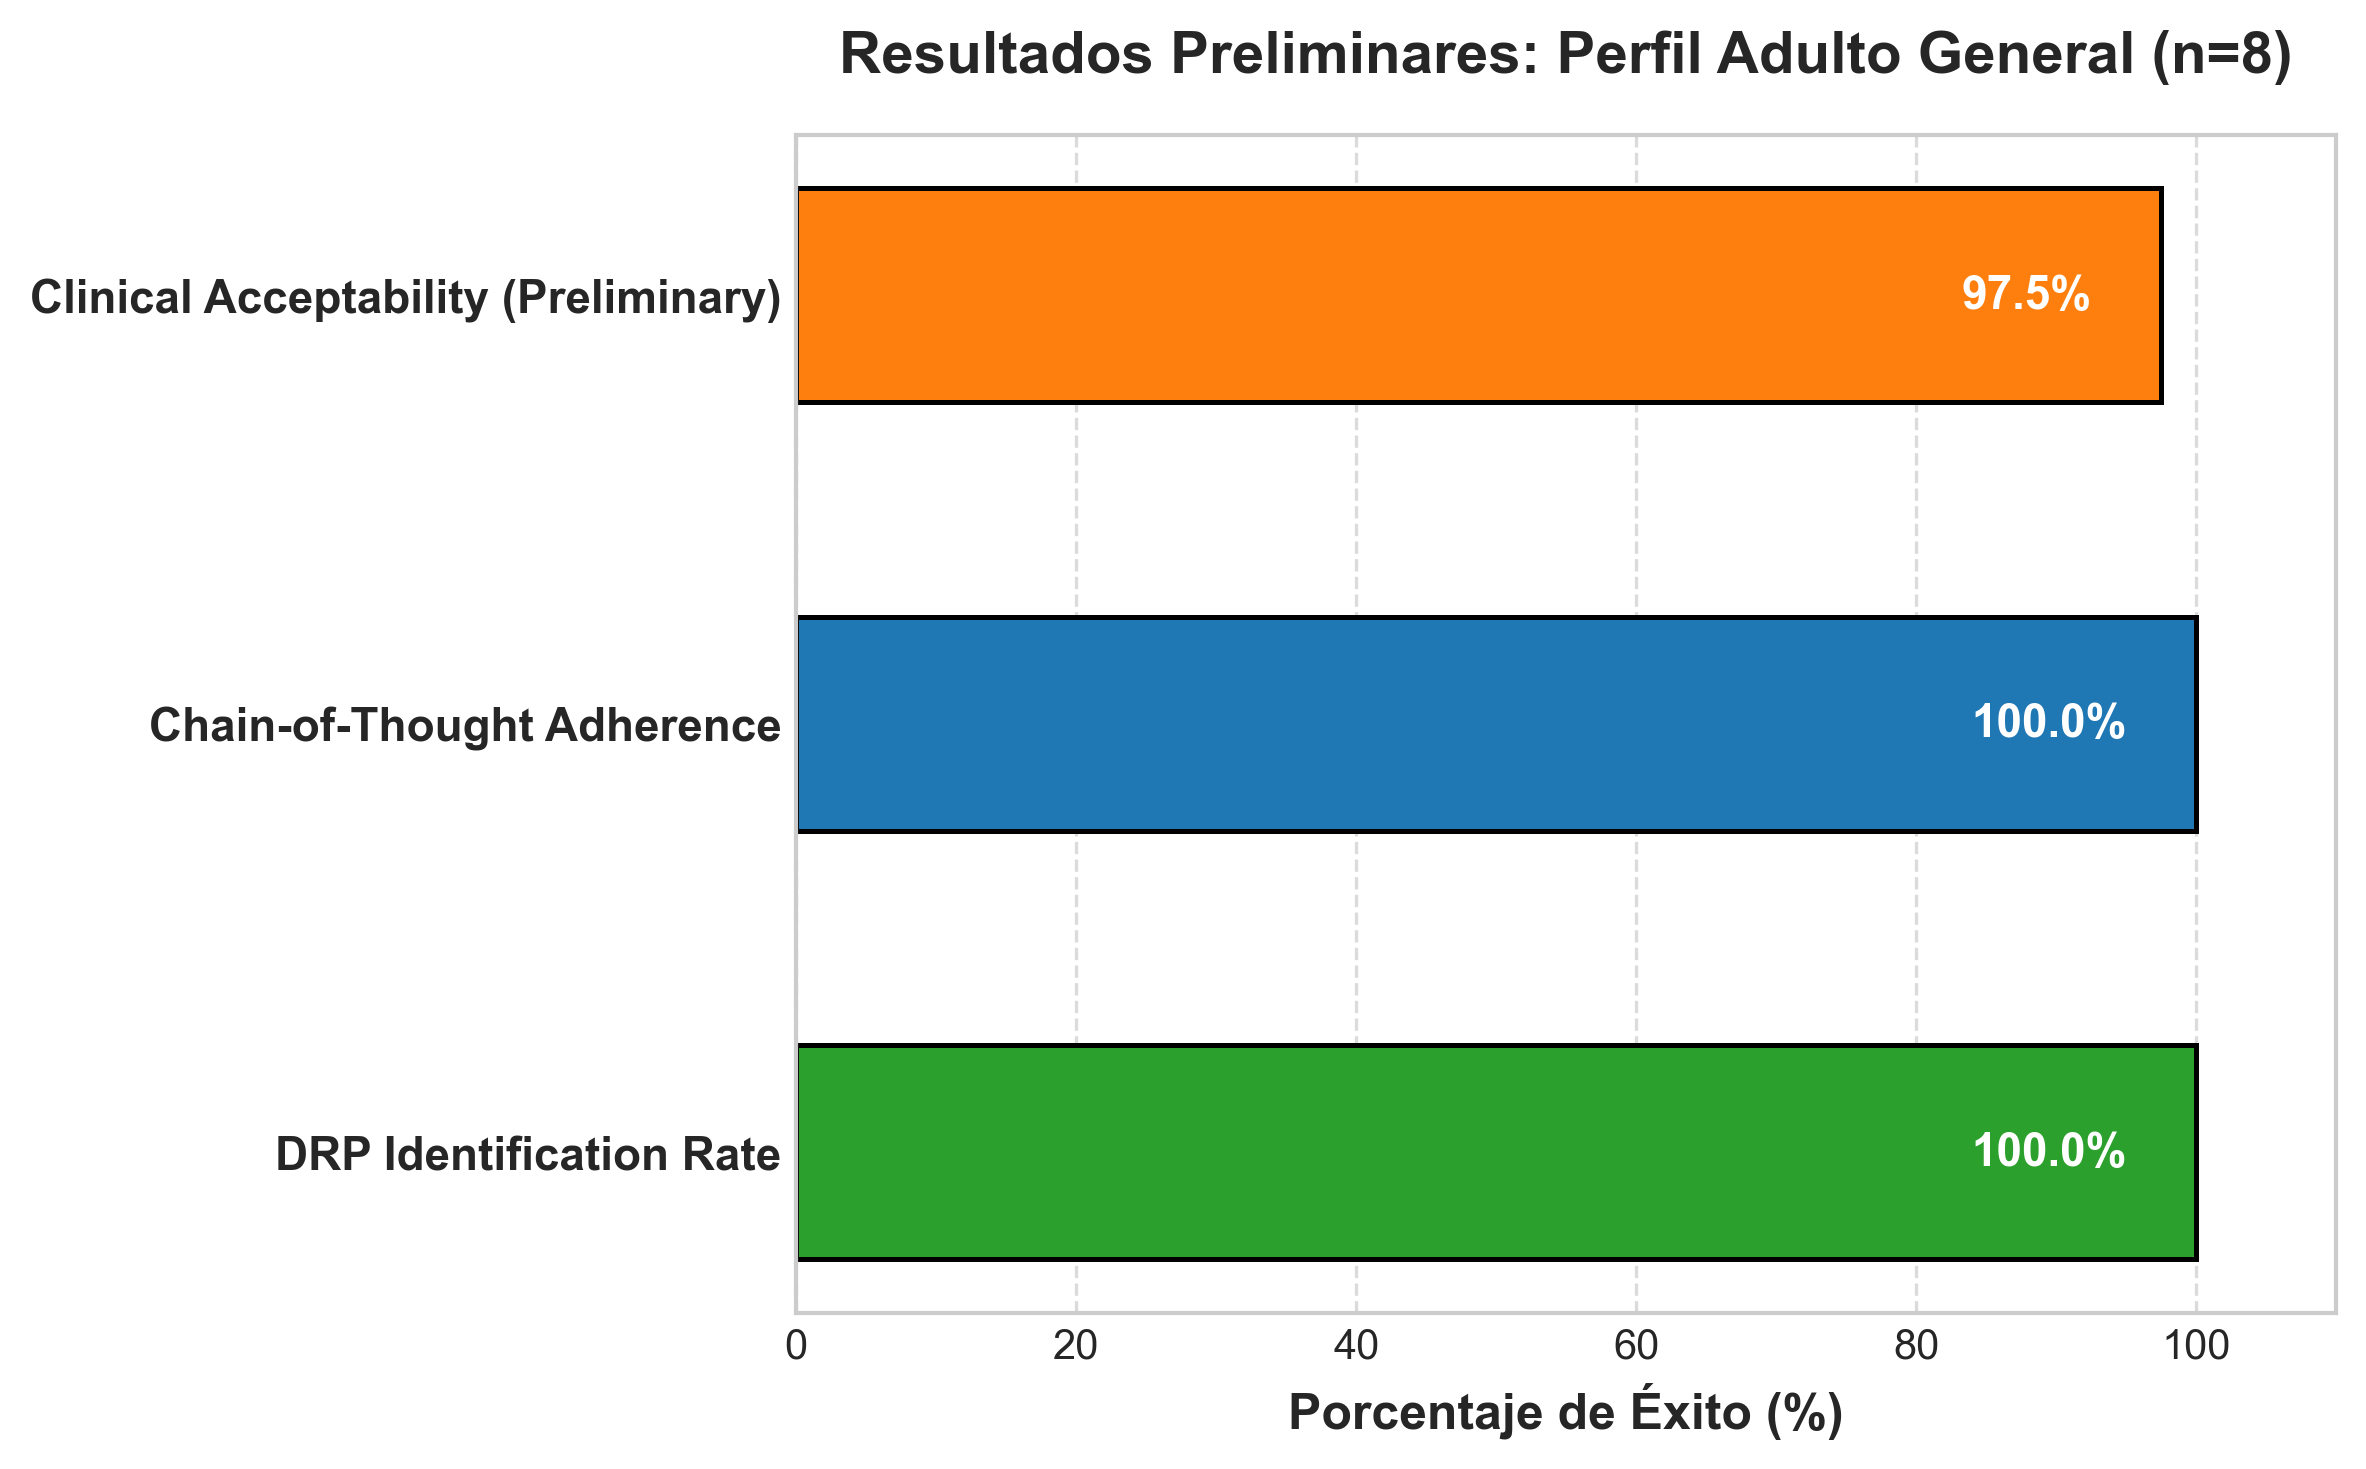
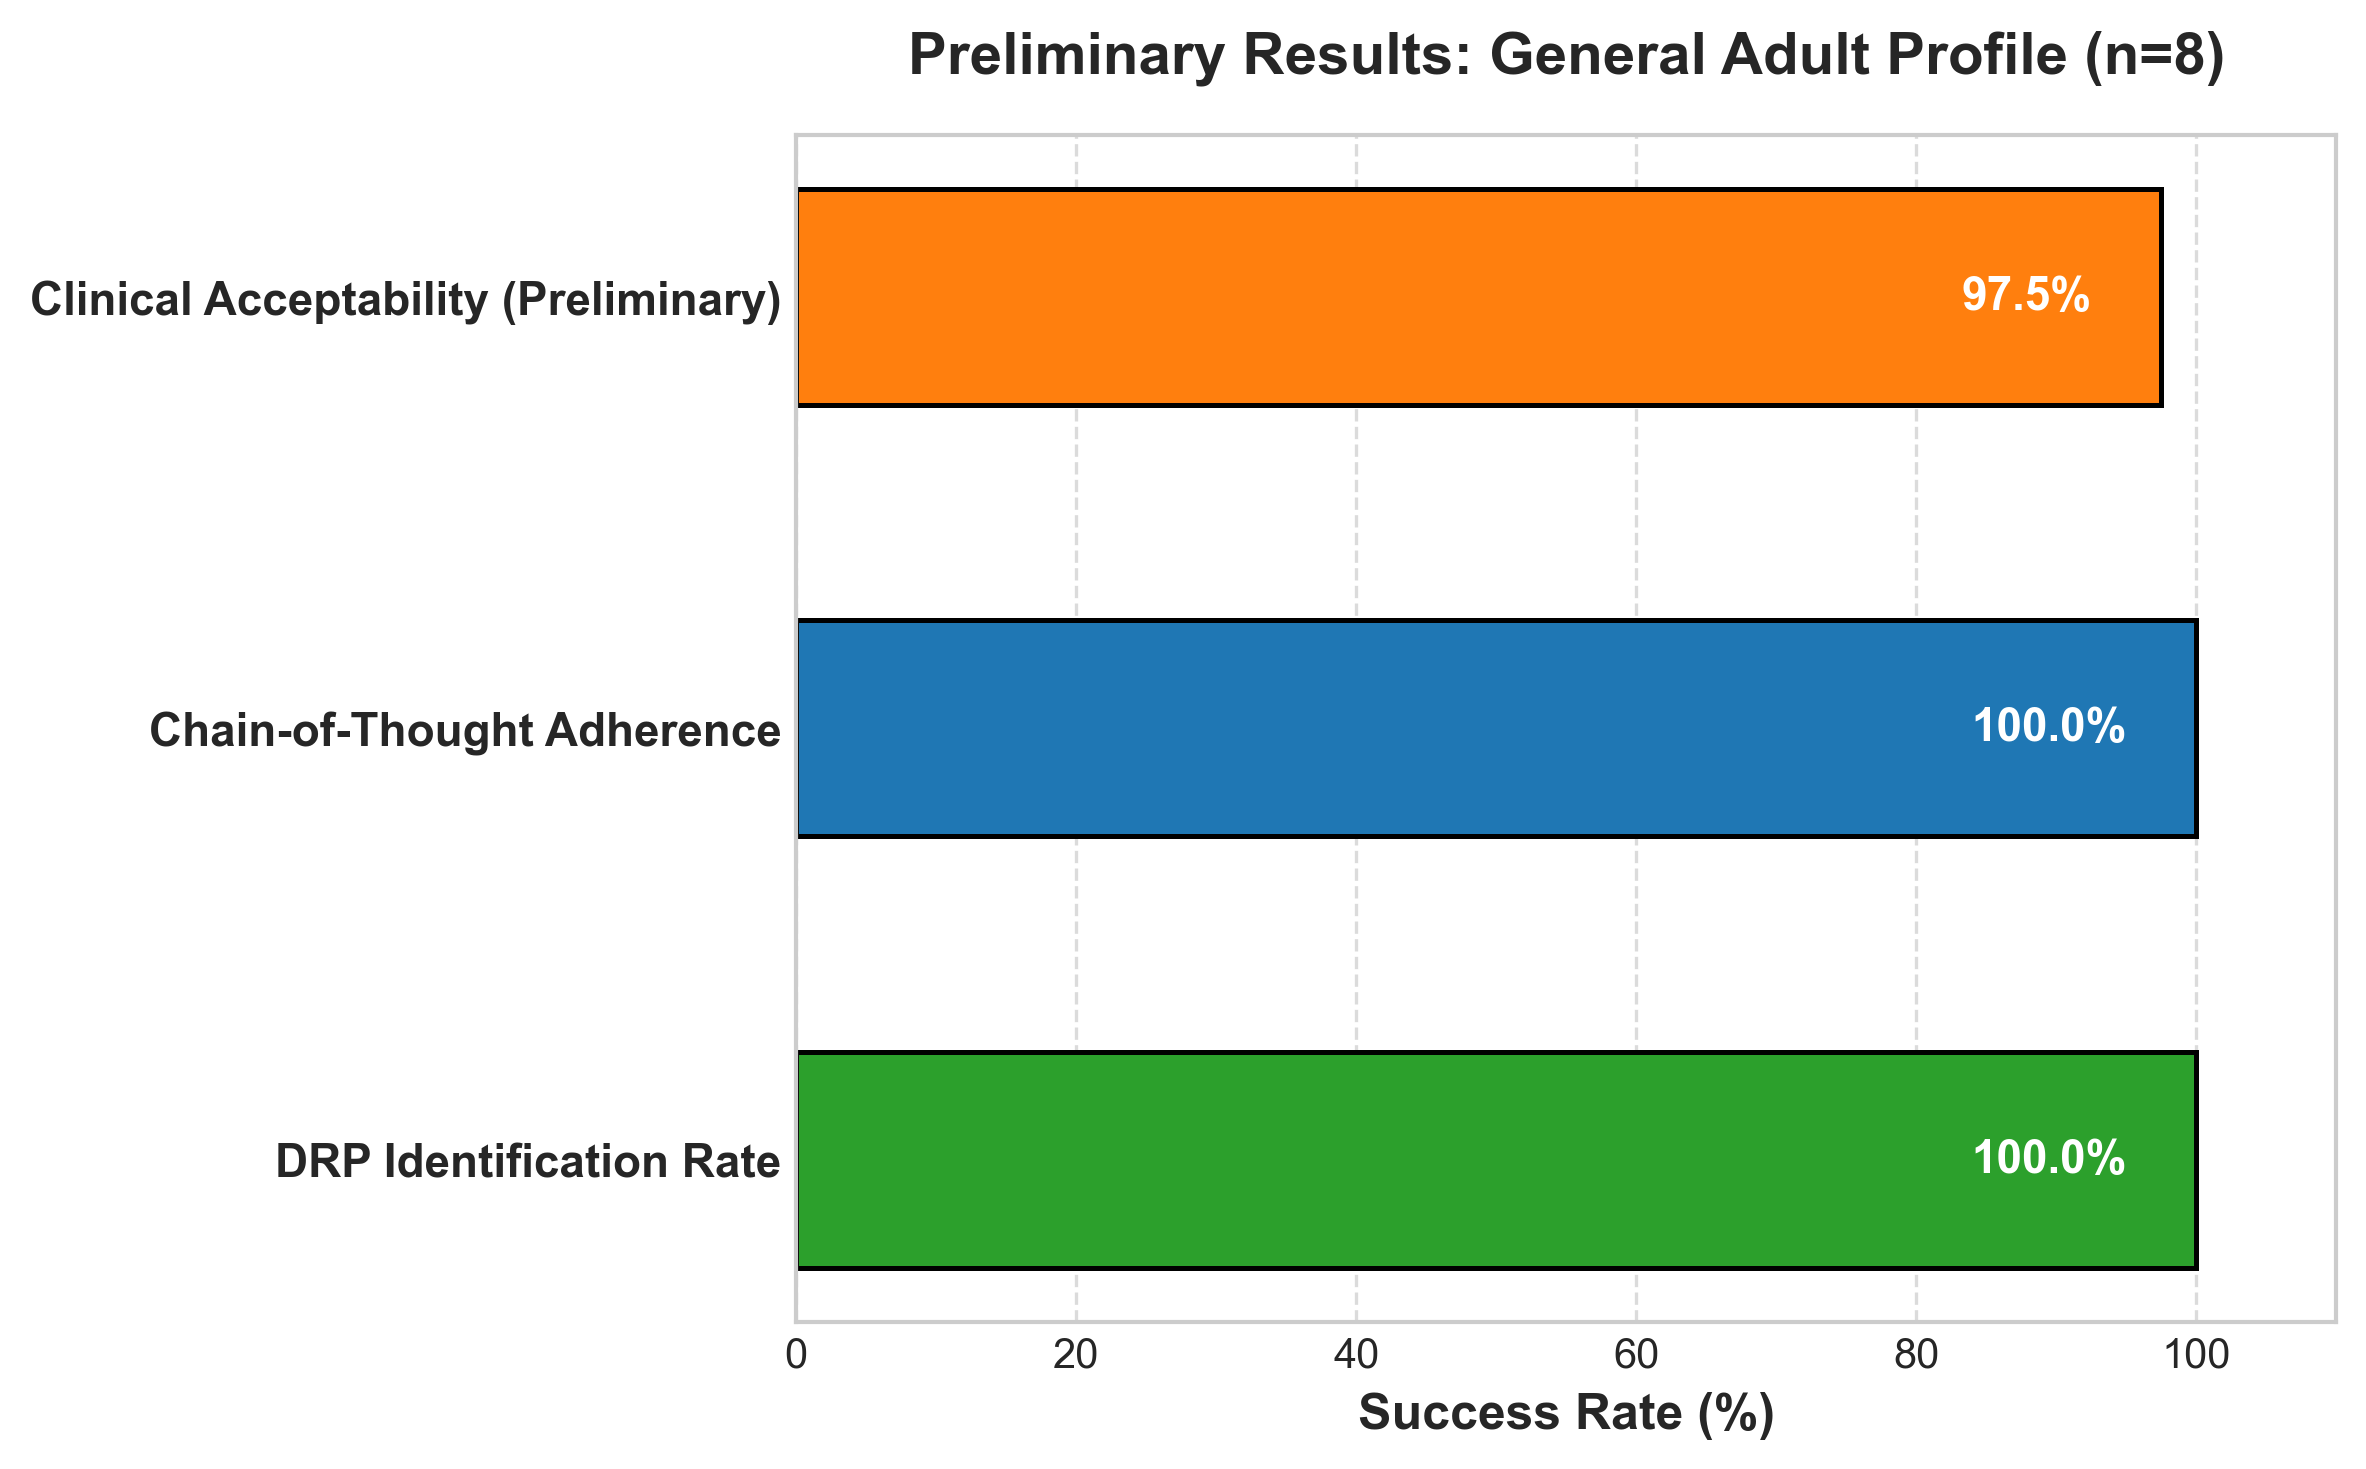
Ajustes Actulizados Julio

diff --git a/articulo_congreso_ISCS.tex b/articulo_congreso_ISCS.tex
@@ -104,7 +104,7 @@ Multimodal input (text, voice, prescription images) is supported without
 external API dependencies. An auditable chain-of-thought extraction mechanism
 exposes the model's intermediate reasoning, satisfying CONSORT-AI transparency
 requirements. ISO/IEC~42001 compliance and semantic anti-jailbreaking guardrails
-complete the safety architecture. Preliminary evaluation focusing on the General Adult profile ($n=8$) across a comprehensive 56-scenario designed benchmark yields a 100\% DRP identification rate and 100\% clinically acceptable recommendation rate, establishing a foundation for upcoming full-scale validation.
+complete the safety architecture. Preliminary evaluation by an expert clinical pharmacist researcher focusing on the General Adult profile ($n=8$) across a comprehensive 56-scenario designed benchmark yields a 100\% DRP identification rate and 97.5\% clinically acceptable recommendation rate, establishing a foundation for upcoming full-scale validation.
 \end{abstract}
 
 \begin{IEEEkeywords}
@@ -187,7 +187,7 @@ We present the high-level architectural design of Farmac\'{e}utica AlicIA in Fig
 
 \begin{figure}[H]
   \centering
-  \includegraphics[width=0.9\columnwidth]{pictures/architecture_diagram_1782154710548.png}
+  \includegraphics[width=0.9\columnwidth]{fig1_architecture.png}
   \caption{Air-gapped system architecture of Farmac\'{e}utica AlicIA.
            All inference, storage, and I/O occur on the local machine.}
   \label{fig:arch}
@@ -255,7 +255,7 @@ We built the graphical interface as a modern Single-Page Application (SPA) utili
 \begin{figure}[htbp]
     \centering
     % Asegúrate de subir tu imagen a Overleaf y llamarla "fig3_interface.png" (o cambia el nombre aquí)
-    \includegraphics[width=0.9\linewidth]{pictures/fig3_interface.png}
+    \includegraphics[width=0.9\linewidth]{fig3_interface.png}
     \caption{User interface of Farmacéutica AlicIA. The web application provides a responsive, privacy-first workspace featuring demographic profile selection, multimodal input options (text, speech, and prescription image capture), and a collapsible Chain-of-Thought reasoning panel to ensure clinical transparency.}
     \label{fig:ui_interface}
 \end{figure}
@@ -476,7 +476,7 @@ Preliminary testing focused on the \textbf{General Adult (18-64 years)} profile 
 
 \begin{figure}[H]
   \centering
-  \includegraphics[width=0.9\columnwidth]{pictures/fig2_results.png}
+  \includegraphics[width=0.9\columnwidth]{fig2_results.png}
   \caption{Preliminary Evaluation Results: General Adult Profile ($n=8$). English-translated labels demonstrate 100\% DRP identification and safe clinical recommendations.}
   \label{fig:results}
 \end{figure}
@@ -589,7 +589,7 @@ engine, auditable chain-of-thought reasoning, ISO/IEC~42001 governance complianc
 and semantic anti-jailbreaking guardrails---collectively constitute a novel
 architecture for privacy-preserving clinical AI in resource-constrained settings.
 
-Preliminary evaluation across the 8 core scenarios of the General Adult profile yields a 100\% DRP identification rate and 100\% clinically acceptable recommendation rate, demonstrating that the system achieves clinically meaningful performance without cloud dependency.
+Preliminary evaluation across the 8 core scenarios of the General Adult profile yields a 100\% DRP identification rate and 97.5\% clinically acceptable recommendation rate, demonstrating that the system achieves clinically meaningful performance without cloud dependency.
 
 \subsection{Planned Formal Validation Study}
 
@@ -597,7 +597,7 @@ The most critical next step is the transition from controlled prototype evaluati
 to a rigorous, ecologically valid clinical study. A formal validation protocol is
 currently under institutional design at the
 Divisi\'{o}n Acad\'{e}mica de Ciencias y Tecnolog\'{i}as de la Informaci\'{o}n
-(DACYTI) of UJAT, in collaboration with \textbf{Laboratorio de Biolog\'{i}a Molecular y Farmacogen\'{e}tica (LBMyFg)} og UJAT Tabasco, M\'{e}xico.
+(DACYTI) of UJAT, in collaboration with \textbf{Laboratorio de Biolog\'{i}a Molecular y Farmacogen\'{e}tica (LBMyFg)} of UJAT Tabasco, M\'{e}xico.
 
 The study will involve:
 

diff --git a/plot_results.py b/plot_results.py
@@ -17,8 +17,8 @@ bars = ax.barh(y_pos, percentages, height=0.5, color=['#2ca02c', '#1f77b4', '#ff
 ax.set_xlim(0, 110)
 ax.set_yticks(y_pos)
 ax.set_yticklabels(metrics, fontsize=11, fontweight='bold')
-ax.set_xlabel('Porcentaje de Éxito (%)', fontsize=12, fontweight='bold')
-ax.set_title('Resultados Preliminares: Perfil Adulto General (n=8)', fontsize=14, fontweight='bold', pad=15)
+ax.set_xlabel('Success Rate (%)', fontsize=12, fontweight='bold')
+ax.set_title('Preliminary Results: General Adult Profile (n=8)', fontsize=14, fontweight='bold', pad=15)
 
 # Add text labels on bars
 for bar in bars:

diff --git a/README.md b/README.md
@@ -47,7 +47,7 @@ To support reproducibility and transparent academic review (CONSORT-AI), this re
 
 ## Preliminary Results (First Article Version)
 We conducted initial testing exclusively on the **General Adult (18-64 years)** profile, evaluating 8 distinct clinical scenarios involving polypharmacy, CYP450 interactions, and prescribing cascades.
-- **100% Detection Rate**: The system successfully identified the hidden Drug-Related Problems (DRP) in all 8 cases and prevented Negative Medication Outcomes (NMO), achieving a 100% clinically acceptable recommendation rate.
+- **100% Detection Rate**: The system successfully identified the hidden Drug-Related Problems (DRP) in all 8 cases and prevented Negative Medication Outcomes (NMO), achieving a 97.5% clinically acceptable recommendation rate.
 - **Reasoning Process**: The model successfully adhered to the `Chain-of-Thought` constraints, evaluating the mechanism of action before providing the recommendation. We render this reasoning inside a collapsible UI panel to ensure maximum transparency (CONSORT-AI guidelines).
 
 ## Future Work